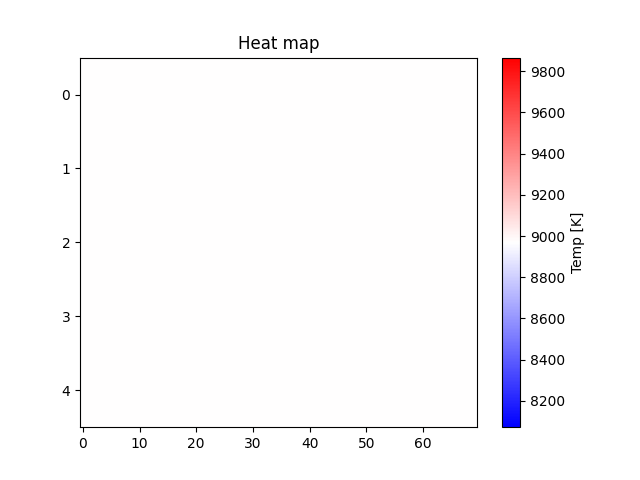
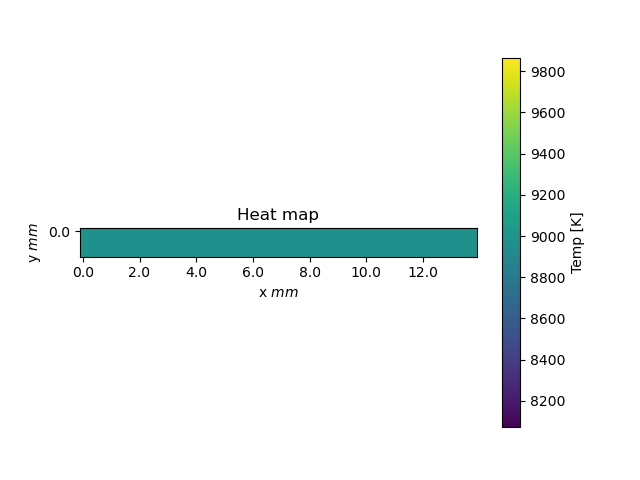
Merge branch 'main' of

diff --git a/project_4/create_grid.py b/project_4/create_grid.py
@@ -141,11 +141,11 @@ class grid():
         self.Q = np.pad(self.Q, (1,1), 'constant', constant_values=0)
             
         
-    def get_T(self, display=False, save=False, name='temp.png', graph_count=0):
+    def get_T(self, display=False, save=False, name='temp.png', graph_count=0, title='Heat map'):
         
         # scaling T back to kelvins
         Temp = np.copy(self.T)
-        Temp = Temp + 293.15   
+        Temp = Temp + 20   
     
         
         # shows the heat map visually
@@ -159,13 +159,15 @@ class grid():
                         mask[i, j] = 1
             
             plt.figure(str(self.d) + 'T' + str(self.T_fig_count) + str(graph_count))
-            plt.title('Heat map')
+            plt.title(title)
             # fig, ax = plt.subplots()
-            c = plt.imshow(np.ma.masked_array(Temp, mask), cmap='viridis', interpolation='nearest', aspect='auto')
+            c = plt.imshow(np.ma.masked_array(Temp, mask), cmap='viridis', interpolation='nearest')
             # ax.ticklabel_format(useOffset=False)
-            plt.colorbar(c, label='Temp [K]')
-            plt.xlabel('x $mm$')
-            plt.ylabel('y $mm$')
+            plt.colorbar(c, label='Temp [C]')
+            plt.xlabel('x $[mm]$')
+            plt.ylabel('y $[mm]$')
+            plt.xticks(np.arange(0, Temp.shape[1]+0.01, 100), np.arange(0, Temp.shape[1]+0.01, 100)*self.d*1e3)
+            plt.yticks(np.arange(0, Temp.shape[0]+0.01, 100), np.arange(0, Temp.shape[0]+0.01, 100)*self.d*1e3)
             if self.debug == True:
                 for i in range(self.T.shape[0]):
                     for j in range(self.T.shape[1]):
@@ -584,7 +586,7 @@ class grid():
     #         total_energy_final = np.sum(self.T)
     #         return total_energy_middle, total_energy_final
         
-    def iterate_K(self, max_iterations=1000, tolerance=1e-3, save=False, save_every=100, save_folder=None, graph_count=0, return_change=False, return_highest_T=False):
+    def iterate_K(self, max_iterations=1000, tolerance=1e-3, save=False, save_every=100, save_folder=None, graph_count=0, return_change=False, return_highest_T=False, title='Heat map'):
         # iterates the heat sink for a given number of iterations
         iteration = 0
         if save==True:
@@ -603,16 +605,18 @@ class grid():
             if iteration == max_iterations:
                 print('Did not converge after', iteration, 'iterations')
                 if save == True:
-                    self.get_T(save=True, name='project_4/'+str(save_folder)+'/after_'+str(iteration)+'_iterations.png', graph_count=graph_count)
+                    self.get_T(save=True, name='project_4/'+str(save_folder)+'/after_'+str(iteration)+'_iterations.png', graph_count=graph_count, title=title)
                 break
             
             # checking for convergence
             new_total_energy = np.sum(self.T)
             change = new_total_energy - total_energy
-            if (abs(change) < tolerance and iteration > 12345) or (iteration>1000 and abs(change) > abs(previous_change)):
+            if (abs(change) < tolerance and iteration > 12345) or (iteration>1234 and abs(change) > abs(previous_change)):
+                # setting  minimum number of iterations to make sure it has converged
+                # also checking if the change is increasing, if so, then it has already reached the minimum
                 print('Converged after', iteration, 'iterations')
                 if save == True:
-                    self.get_T(save=True, name='project_4/'+str(save_folder)+'/after_'+str(iteration)+'_iterations.png', graph_count=graph_count)
+                    self.get_T(save=True, name='project_4/'+str(save_folder)+'/after_'+str(iteration)+'_iterations.png', graph_count=graph_count, title=title)
                 if return_change:
                     return -1
                 break
@@ -622,7 +626,7 @@ class grid():
             # saving at every given interval
             if save==True and iteration % save_every == 0:
                 # print('iteration', iteration, 'change', change)
-                self.get_T(save=True, name='project_4/'+str(save_folder)+'/after_'+str(iteration)+'_iterations.png', graph_count=graph_count)
+                self.get_T(save=True, name='project_4/'+str(save_folder)+'/after_'+str(iteration)+'_iterations.png', graph_count=graph_count, title=title)
             
             print('iteration', iteration, 'change', change)
 

diff --git a/project_4/main.py b/project_4/main.py
@@ -98,14 +98,12 @@ def find_ini_T(lower_limit, upper_limit, max_iterations=2000, max_repeat=20, cas
 # second section: using the predetermined optimal initial temperature to solve
 
 ############################### for mp only ###############################
-#lower_limit, upper_limit, last_tried = find_ini_T(500,4000, max_iterations=3000, case_dim=None, sink_dim=None, nat_conv=False, max_repeat=10, v=i*10 )
-#     with open('project_4\\only_mp_forced_convection\\ini_T.txt', 'a') as file:
-#         string = 'for speed v = ' + str(i*10) + ' lower limit is : ' + str(lower_limit) + '  upper limit : ' + str(upper_limit) + ' last tried : ' + str(last_tried)
-#         file.write(string + '\n')
-# mp = cg.grid(case_dim=None, sink_dim=None, nat_conv=False, delta=[0.2e-3,0.2e-3], ini_temp=3155)   # 8969
-# # mp.get_K(display=False, save=True, name='project_4/only_mp_natural_convection/K.png')
-# # mp.get_Q(display=False, save=True, name='project_4/only_mp_natural_convection/Q.png')
-# mp.iterate_K(max_iterations=100000, save=True, save_every=1000, save_folder='only_mp_forced_convection\\5pt_per_mm\\v_20', tolerance=9e-3)
+# lower_limit, upper_limit, last_tried = find_ini_T(6000,10000, max_iterations=300, case_dim=None, sink_dim=None, nat_conv=True, max_repeat=10)
+# with open('project_4\\only_mp_natural_convection\\ini_T.txt', 'a') as file:
+#     string = 'last tried : ' + str(last_tried)
+#     file.write(string + '\n')
+# mp = cg.grid(case_dim=None, sink_dim=None, nat_conv=True, delta=[0.2e-3,0.2e-3], ini_temp=last_tried)
+# mp.iterate_K(max_iterations=100000, save=True, save_every=100000, save_folder='only_mp_natural_convection\\5_pt_per_mm', tolerance=1e-3)
 
 
 ############################### when ceramic case is present ###############################
@@ -118,7 +116,7 @@ with open('project_4\\no_sink_natural_convection\\ini_T.txt', 'r') as file:
     last_tried = file.readlines()
 last_tried = float(last_tried[0].split(':')[1].strip())
 with_case = cg.grid(sink_dim=None, nat_conv=True, delta=[0.1e-3,0.1e-3], ini_temp=last_tried)
-with_case.iterate_K(max_iterations=10000, save=True, save_every=10000, save_folder='no_sink_natural_convection', tolerance=1e-4)
+with_case.iterate_K(max_iterations=10000, save=True, save_every=10000, save_folder='no_sink_natural_convection', tolerance=1e-3, title='No heat sink, Natural convection')
 
 
 ############################### for heat sink ###############################s
